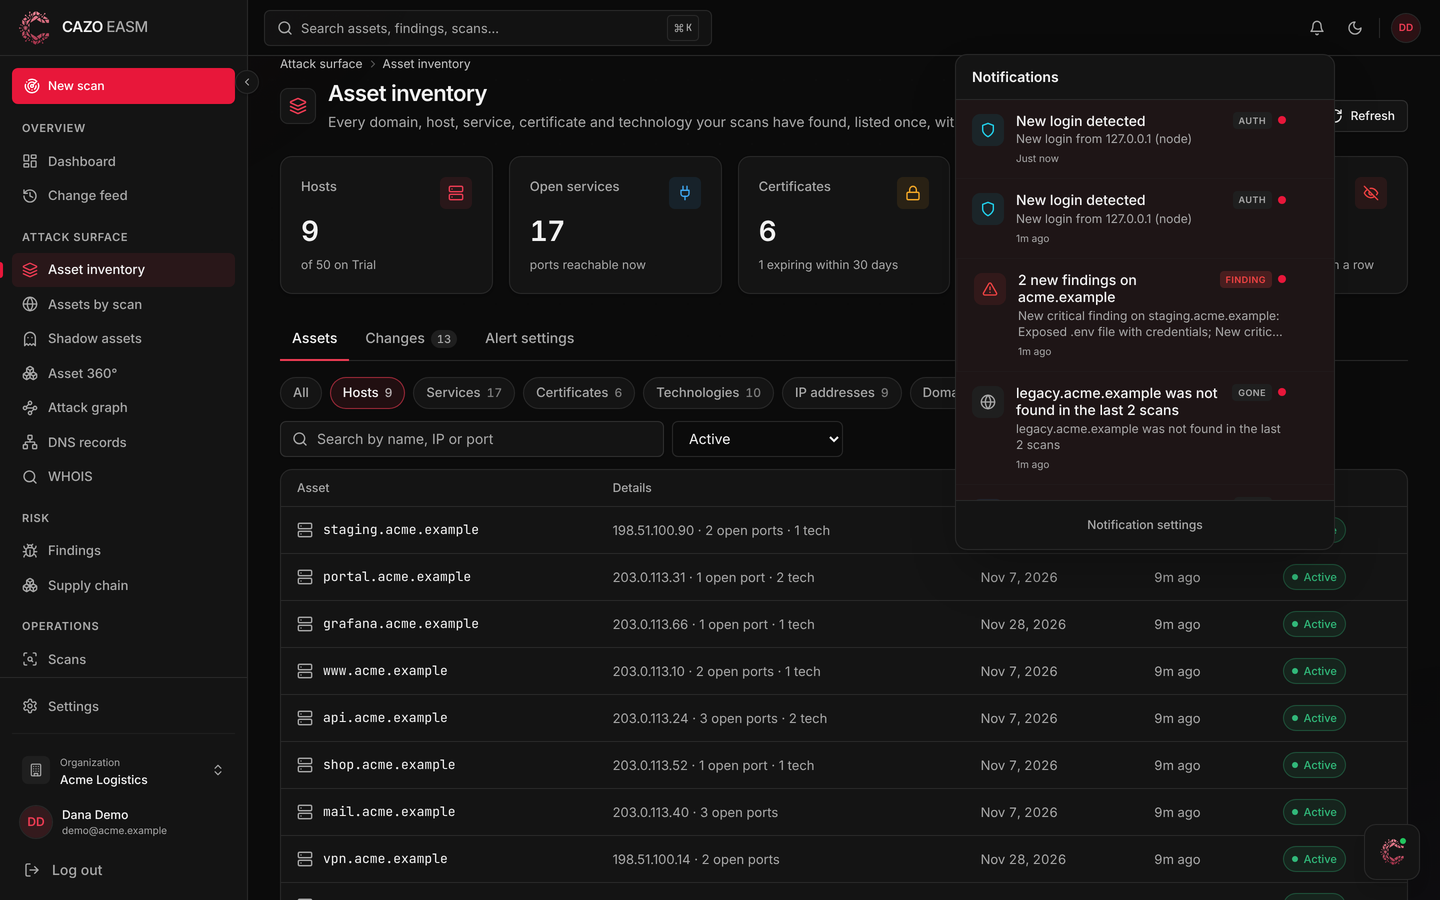
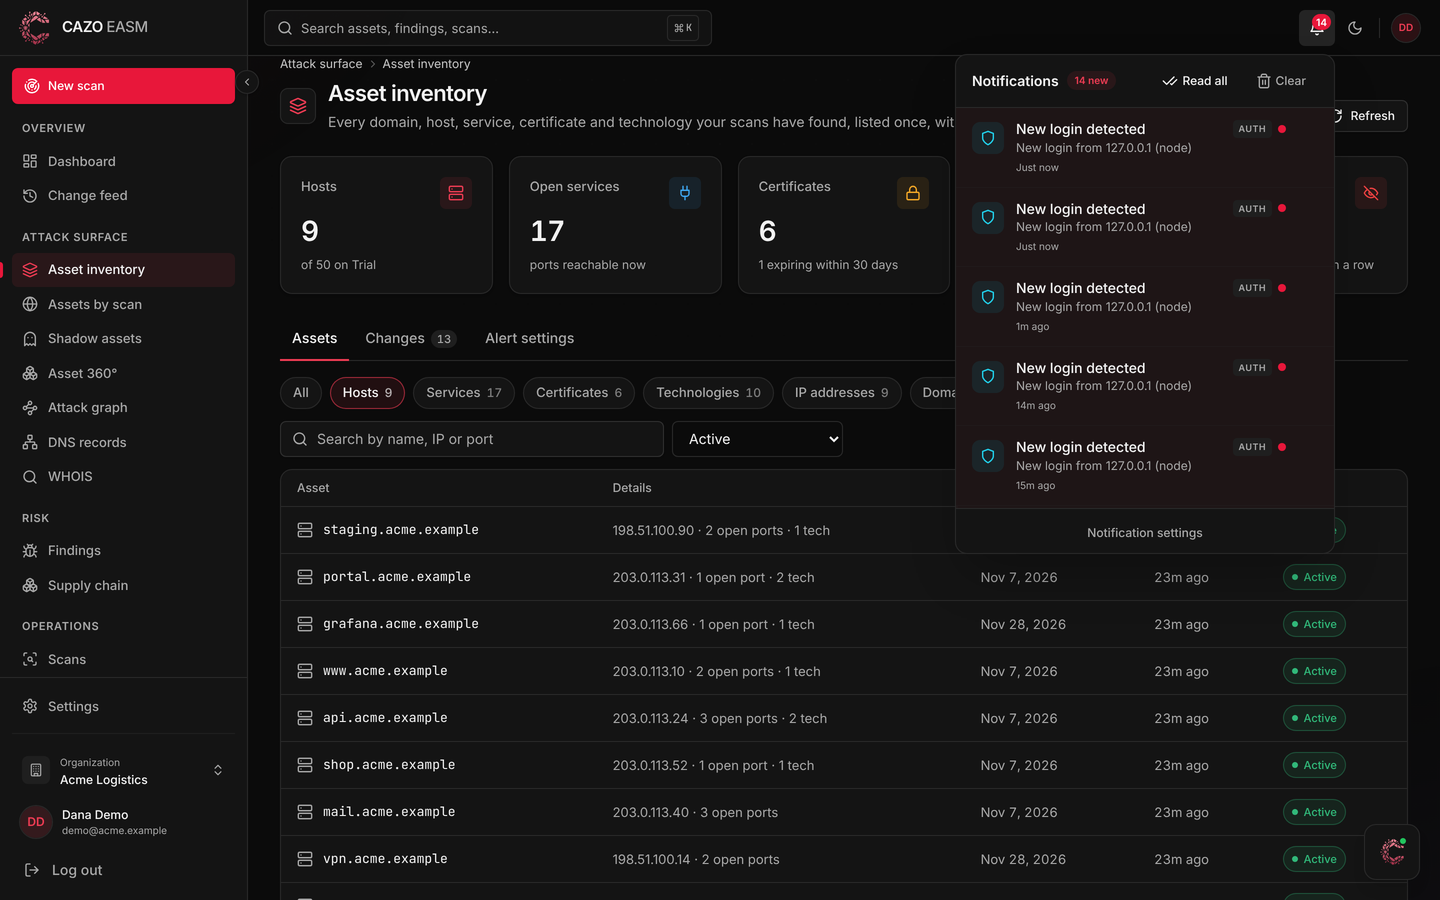
Notifications panel: close on outside click, add Clear, fix unread count
The fixed backdrop only covered the top bar, so clicking the page did not
close the panel. It now closes on any outside click or Escape. Adds a small
Clear button next to Read all.

The unread count was always 0 because the queries used Python's 'not' on a
column, so the bell badge and Read all never showed.

Claude-Session: https://claude.ai/code/session_017uDs6F41TL5syYtfgZquG2

diff --git a/frontend/src/components/notifications/NotificationCenter.tsx b/frontend/src/components/notifications/NotificationCenter.tsx
@@ -1,6 +1,6 @@
 "use client";
 
-import { useEffect, useState, useCallback } from "react";
+import { useEffect, useRef, useState, useCallback } from "react";
 import { useRouter } from "next/navigation";
 import {
   Bell,
@@ -23,6 +23,7 @@ import {
   markNotificationRead,
   markAllNotificationsRead,
   deleteNotification,
+  clearAllNotifications,
   getToken,
 } from "@/lib/api";
 import { Button } from "@/components/ui/button";
@@ -87,6 +88,26 @@ export function NotificationCenter() {
   const [unreadCount, setUnreadCount] = useState(0);
   const [loading, setLoading] = useState(false);
   const [initialLoaded, setInitialLoaded] = useState(false);
+  const rootRef = useRef<HTMLDivElement>(null);
+
+  // Close when clicking anywhere outside the panel, or pressing Escape. (A
+  // backdrop element is not enough: the top bar creates its own layer, so a
+  // fixed backdrop only covers the bar, not the page.)
+  useEffect(() => {
+    if (!open) return;
+    const onPointerDown = (e: PointerEvent) => {
+      if (rootRef.current && !rootRef.current.contains(e.target as Node)) setOpen(false);
+    };
+    const onKey = (e: KeyboardEvent) => {
+      if (e.key === "Escape") setOpen(false);
+    };
+    document.addEventListener("pointerdown", onPointerDown);
+    document.addEventListener("keydown", onKey);
+    return () => {
+      document.removeEventListener("pointerdown", onPointerDown);
+      document.removeEventListener("keydown", onKey);
+    };
+  }, [open]);
 
   const fetchUnreadCount = useCallback(async () => {
     try {
@@ -138,6 +159,20 @@ export function NotificationCenter() {
     }
   };
 
+  const handleClearAll = async () => {
+    const previous = notifications;
+    const previousUnread = unreadCount;
+    setNotifications([]);
+    setUnreadCount(0);
+    try {
+      await clearAllNotifications();
+    } catch {
+      // Put them back if the server did not clear them.
+      setNotifications(previous);
+      setUnreadCount(previousUnread);
+    }
+  };
+
   const handleMarkAllRead = async () => {
     try {
       await markAllNotificationsRead();
@@ -175,10 +210,12 @@ export function NotificationCenter() {
   };
 
   return (
-    <div className="relative">
+    <div className="relative" ref={rootRef}>
       <Button
         variant="ghost"
         size="icon"
+        aria-label="Notifications"
+        aria-expanded={open}
         className="relative h-9 w-9 text-muted-foreground hover:text-foreground"
         onClick={() => {
           setOpen(!open);
@@ -196,12 +233,6 @@ export function NotificationCenter() {
       <AnimatePresence>
         {open && (
           <>
-            {/* Backdrop */}
-            <div
-              className="fixed inset-0 z-40"
-              onClick={() => setOpen(false)}
-            />
-
             {/* Panel */}
             <motion.div
               initial={{ opacity: 0, y: -8, scale: 0.96 }}
@@ -230,6 +261,17 @@ export function NotificationCenter() {
                     >
                       <CheckCheck className="h-3 w-3" />
                       Read all
+                    </Button>
+                  )}
+                  {notifications.length > 0 && (
+                    <Button
+                      variant="ghost"
+                      size="sm"
+                      className="h-7 gap-1 text-xs text-muted-foreground hover:text-foreground"
+                      onClick={handleClearAll}
+                    >
+                      <Trash2 className="h-3 w-3" />
+                      Clear
                     </Button>
                   )}
                 </div>

diff --git a/backend/tests/test_inventory.py b/backend/tests/test_inventory.py
@@ -515,3 +515,23 @@ class TestRebuild:
         assert hosts["example.com"].attributes["open_ports"] == [443]
         assert hosts["api.example.com"].miss_count == 0
         assert "asset_disappeared" not in res.alerts
+
+
+class TestNotificationCounts:
+    def test_unread_count_and_read_all(self, client, db_session):
+        """The bell's unread badge: the count used to be always 0."""
+        org = _org(db_session)
+        owner = _user(db_session, org)
+        for i in range(3):
+            db_session.add(Notification(organization_id=org.id, user_id=owner.id, type="inventory_new_asset",
+                                        title=f"n{i}", message="m", read=(i == 0)))
+        db_session.commit()
+        h = _headers(owner)
+        assert client.get("/api/v1/notifications/unread-count", headers=h).json()["count"] == 2
+        body = client.get("/api/v1/notifications", headers=h).json()
+        assert body["unread_count"] == 2 and body["total"] == 3
+        assert len(client.get("/api/v1/notifications?unread_only=true", headers=h).json()["notifications"]) == 2
+        client.put("/api/v1/notifications/read-all", headers=h)
+        assert client.get("/api/v1/notifications/unread-count", headers=h).json()["count"] == 0
+        assert client.delete("/api/v1/notifications", headers=h).status_code == 200
+        assert client.get("/api/v1/notifications", headers=h).json()["total"] == 0

diff --git a/backend/app/api/v1/notifications.py b/backend/app/api/v1/notifications.py
@@ -21,12 +21,12 @@ async def list_notifications(
     query = db.query(Notification).filter(Notification.user_id == current_user.id)
 
     if unread_only:
-        query = query.filter(not Notification.read)
+        query = query.filter(Notification.read.is_(False))
 
     total = query.count()
     unread_count = db.query(Notification).filter(
         Notification.user_id == current_user.id,
-        not Notification.read
+        Notification.read.is_(False)
     ).count()
 
     notifications = (
@@ -51,7 +51,7 @@ async def get_unread_count(
     """Get count of unread notifications."""
     count = db.query(Notification).filter(
         Notification.user_id == current_user.id,
-        not Notification.read
+        Notification.read.is_(False)
     ).count()
     return {"count": count}
 
@@ -84,7 +84,7 @@ async def mark_all_as_read(
     """Mark all notifications as read."""
     db.query(Notification).filter(
         Notification.user_id == current_user.id,
-        not Notification.read
+        Notification.read.is_(False)
     ).update({"read": True})
     db.commit()
     return {"message": "All notifications marked as read"}
